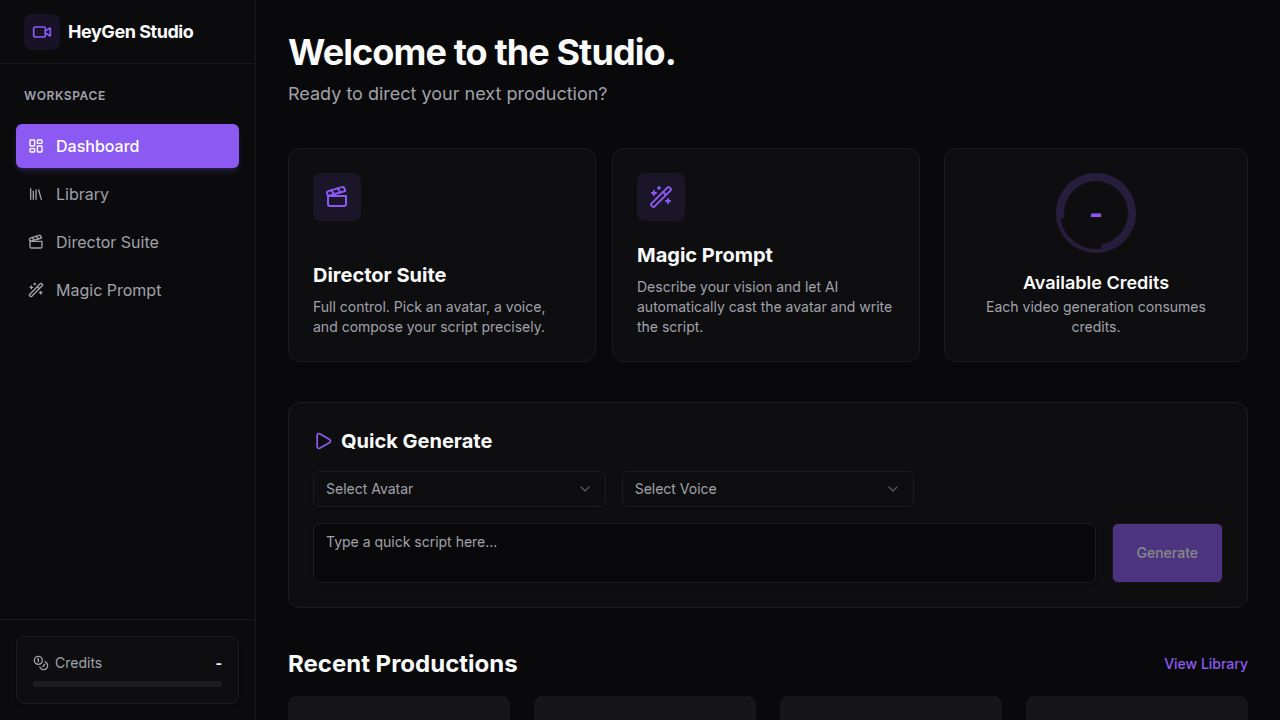
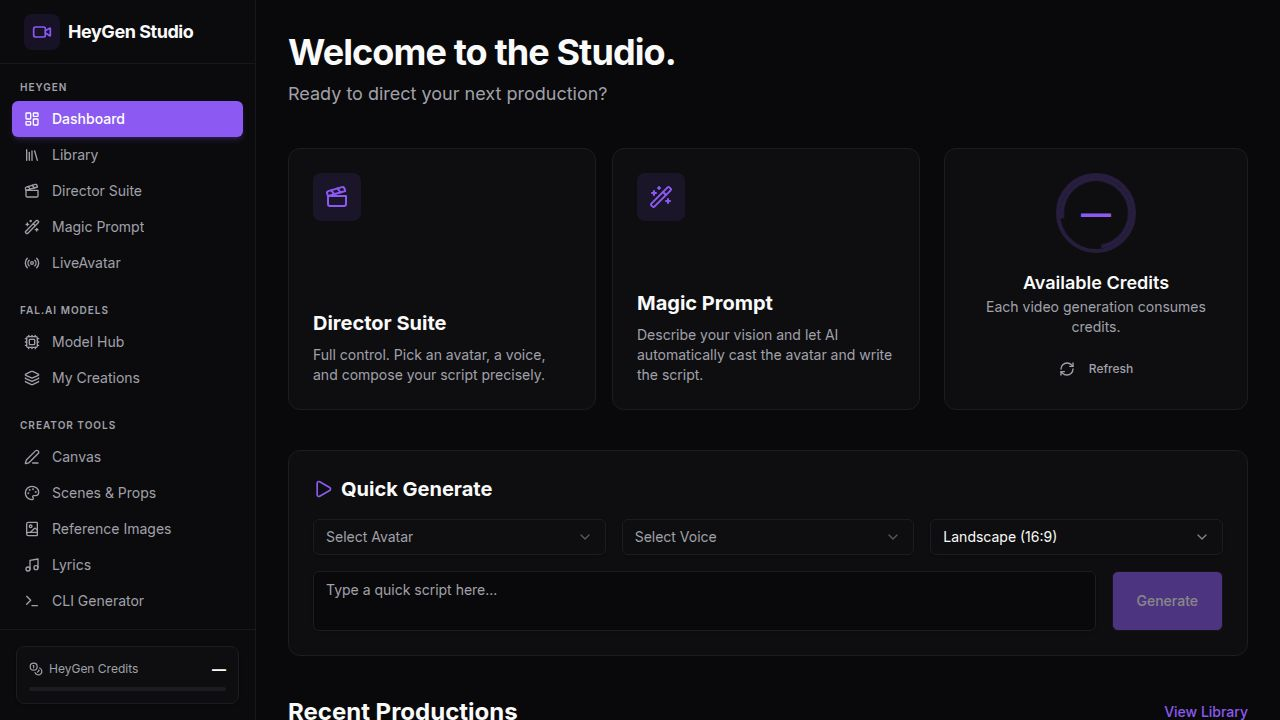
Add Kling video generation capabilities and fix UI grid display
Integrates the Kling API for video generation and resolves a duplicate className issue in the Canvas component.

Replit-Commit-Author: Agent
Replit-Commit-Session-Id: b1366785-6965-423b-9b5a-460a4304e650
Replit-Commit-Checkpoint-Type: full_checkpoint
Replit-Commit-Event-Id: 6a5b1b60-97d7-46f0-8b0c-03db6ef67e09
Replit-Commit-Screenshot-Url: https://storage.googleapis.com/screenshot-production-us-central1/0c1530b1-313e-4007-b1c0-b48a4d5a5ffc/b1366785-6965-423b-9b5a-460a4304e650/Yx0sxze
Replit-Helium-Checkpoint-Created: true

diff --git a/artifacts/api-server/src/routes/kling.ts b/artifacts/api-server/src/routes/kling.ts
@@ -1,0 +1,169 @@
+import { Router, type IRouter } from "express";
+import crypto from "crypto";
+
+const router: IRouter = Router();
+
+const KLING_API_BASE = "https://api.klingai.com";
+const REQUEST_TIMEOUT_MS = 30_000;
+
+function buildKlingJWT(): string {
+  const accessKey = process.env.KLING_ACCESS_KEY;
+  const apiSecret = process.env.KLING_API_SECRET;
+  if (!accessKey || !apiSecret) {
+    throw new Error("KLING_ACCESS_KEY or KLING_API_SECRET is not set");
+  }
+  const header = Buffer.from(JSON.stringify({ alg: "HS256", typ: "JWT" })).toString("base64url");
+  const now = Math.floor(Date.now() / 1000);
+  const payload = Buffer.from(
+    JSON.stringify({ iss: accessKey, exp: now + 1800, nbf: now - 5 })
+  ).toString("base64url");
+  const sig = crypto
+    .createHmac("sha256", apiSecret)
+    .update(`${header}.${payload}`)
+    .digest("base64url");
+  return `${header}.${payload}.${sig}`;
+}
+
+function klingHeaders() {
+  return {
+    Authorization: `Bearer ${buildKlingJWT()}`,
+    "Content-Type": "application/json",
+  };
+}
+
+async function klingFetch(path: string, options: RequestInit = {}) {
+  const controller = new AbortController();
+  const timer = setTimeout(() => controller.abort(), REQUEST_TIMEOUT_MS);
+  try {
+    const res = await fetch(`${KLING_API_BASE}${path}`, {
+      ...options,
+      signal: controller.signal,
+      headers: {
+        ...klingHeaders(),
+        ...(options.headers as Record<string, string> | undefined),
+      },
+    });
+    return res;
+  } finally {
+    clearTimeout(timer);
+  }
+}
+
+// POST /api/kling/text-to-video
+router.post("/kling/text-to-video", async (req, res) => {
+  try {
+    const {
+      prompt,
+      negative_prompt,
+      model_name = "kling-v2-master",
+      aspect_ratio = "16:9",
+      duration = "5",
+      mode = "std",
+      cfg_scale = 0.5,
+    } = req.body;
+
+    if (!prompt) {
+      res.status(400).json({ error: "prompt is required" });
+      return;
+    }
+
+    const resp = await klingFetch("/v1/videos/text2video", {
+      method: "POST",
+      body: JSON.stringify({
+        prompt,
+        negative_prompt,
+        model_name,
+        aspect_ratio,
+        duration,
+        mode,
+        cfg_scale,
+      }),
+    });
+
+    const data = await resp.json() as Record<string, unknown>;
+    if (!resp.ok) {
+      res.status(resp.status).json(data);
+      return;
+    }
+    res.json(data);
+  } catch (err: unknown) {
+    const msg = err instanceof Error ? err.message : String(err);
+    res.status(500).json({ error: msg });
+  }
+});
+
+// POST /api/kling/image-to-video
+router.post("/kling/image-to-video", async (req, res) => {
+  try {
+    const {
+      prompt,
+      image_url,
+      negative_prompt,
+      model_name = "kling-v2-master",
+      aspect_ratio = "16:9",
+      duration = "5",
+      mode = "std",
+      cfg_scale = 0.5,
+    } = req.body;
+
+    if (!prompt || !image_url) {
+      res.status(400).json({ error: "prompt and image_url are required" });
+      return;
+    }
+
+    const resp = await klingFetch("/v1/videos/image2video", {
+      method: "POST",
+      body: JSON.stringify({
+        prompt,
+        negative_prompt,
+        image_url,
+        model_name,
+        aspect_ratio,
+        duration,
+        mode,
+        cfg_scale,
+      }),
+    });
+
+    const data = await resp.json() as Record<string, unknown>;
+    if (!resp.ok) {
+      res.status(resp.status).json(data);
+      return;
+    }
+    res.json(data);
+  } catch (err: unknown) {
+    const msg = err instanceof Error ? err.message : String(err);
+    res.status(500).json({ error: msg });
+  }
+});
+
+// GET /api/kling/task/:taskId — poll task status
+router.get("/kling/task/:taskId", async (req, res) => {
+  try {
+    const { taskId } = req.params;
+    const resp = await klingFetch(`/v1/videos/text2video/${taskId}`);
+    const data = await resp.json() as Record<string, unknown>;
+    if (!resp.ok) {
+      res.status(resp.status).json(data);
+      return;
+    }
+    res.json(data);
+  } catch (err: unknown) {
+    const msg = err instanceof Error ? err.message : String(err);
+    res.status(500).json({ error: msg });
+  }
+});
+
+// GET /api/kling/models — list available Kling models
+router.get("/kling/models", (_req, res) => {
+  res.json({
+    models: [
+      { id: "kling-v2-master", name: "Kling v2 Master", description: "Highest quality, slower generation" },
+      { id: "kling-v1-6-pro", name: "Kling v1.6 Pro", description: "Pro tier, balanced quality/speed" },
+      { id: "kling-v1-6-standard", name: "Kling v1.6 Standard", description: "Standard tier" },
+      { id: "kling-v1-5-pro", name: "Kling v1.5 Pro", description: "Previous gen Pro" },
+    ],
+  });
+});
+
+export default router;

diff --git a/artifacts/api-server/src/routes/index.ts b/artifacts/api-server/src/routes/index.ts
@@ -2,11 +2,13 @@ import { Router, type IRouter } from "express";
 import healthRouter from "./health";
 import heygenRouter from "./heygen";
 import falRouter from "./fal";
+import klingRouter from "./kling";
 
 const router: IRouter = Router();
 
 router.use(healthRouter);
 router.use(heygenRouter);
 router.use(falRouter);
+router.use(klingRouter);
 
 export default router;

diff --git a/artifacts/heygen-studio/src/pages/Canvas.tsx b/artifacts/heygen-studio/src/pages/Canvas.tsx
@@ -379,7 +379,7 @@ export function Canvas() {
 
         <div className="mt-auto flex flex-col gap-2">
           <Button size="icon" variant="ghost" className="w-10 h-10" title="Toggle Grid" onClick={() => setShowGrid(g => !g)}>
-            <Grid className="w-4 h-4" className={showGrid ? "text-primary" : ""} />
+            <Grid className={`w-4 h-4 ${showGrid ? "text-primary" : ""}`} />
           </Button>
           <Button size="icon" variant="ghost" className="w-10 h-10" title="Export PNG" onClick={exportPNG}>
             <Download className="w-4 h-4" />